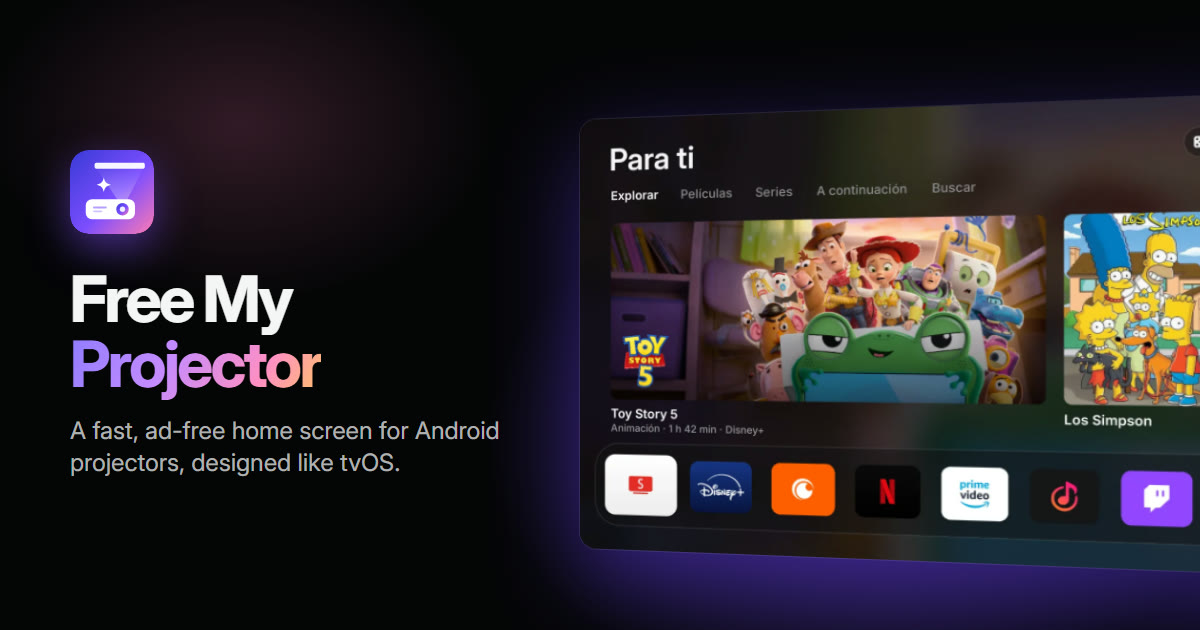
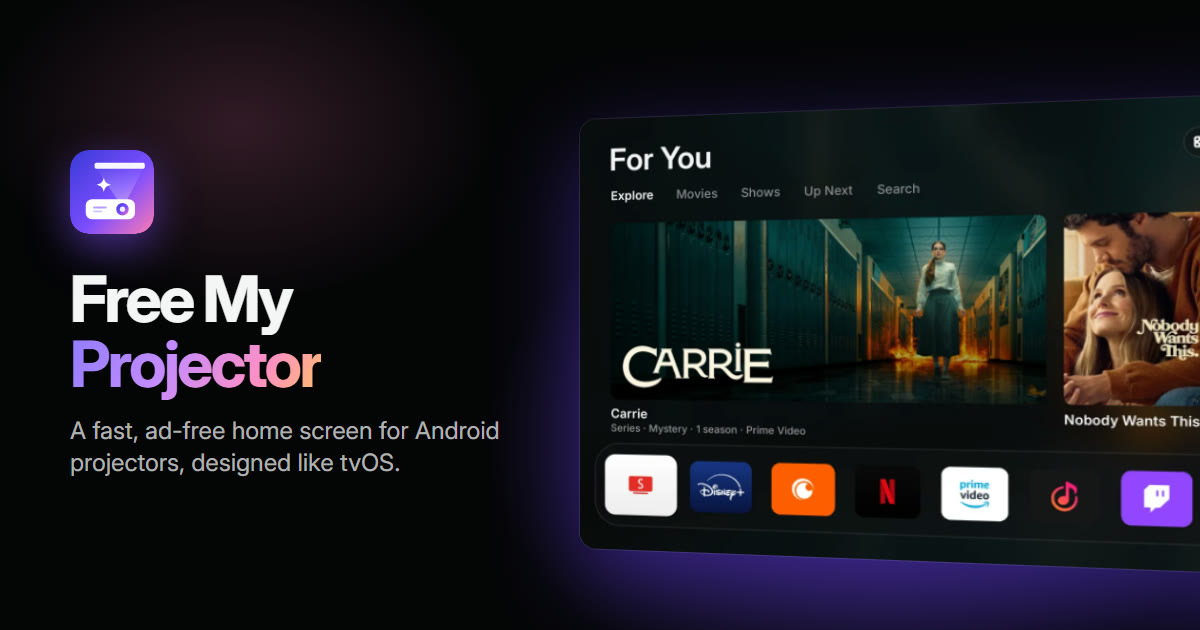
feat(web): capturas en inglés para la página en inglés; el comparador oculta la etiqueta del diseño tapado

Changed region(s): [[0.4933, 0.1508, 1.0, 0.7238], [0.6783, 0.8444, 1.0, 0.9048], [0.4933, 0.2111, 0.6167, 0.2714]]

diff --git a/docs/index.html b/docs/index.html
@@ -19,7 +19,7 @@
   <link rel="icon" href="assets/logo.svg" type="image/svg+xml">
   <link rel="apple-touch-icon" href="assets/icon-180.png">
   <link rel="preload" href="assets/fonts/InterVariable.ttf" as="font" type="font/ttf" crossorigin>
-  <link rel="stylesheet" href="styles.css?v=2">
+  <link rel="stylesheet" href="styles.css?v=3">
 </head>
 <body>
 
@@ -60,8 +60,8 @@
       <div class="stage reveal">
         <div class="beam"></div>
         <div class="screen">
-          <img class="night" src="img/home-dark.webp" srcset="img/home-dark-800.webp 800w, img/home-dark.webp 1600w" sizes="(max-width: 1200px) 100vw, 1180px" alt="The home screen at night: a large movie card, two posters and the app dock" fetchpriority="high">
-          <img class="day off" src="img/home-light.webp" srcset="img/home-light-800.webp 800w, img/home-light.webp 1600w" sizes="(max-width: 1200px) 100vw, 1180px" alt="The same home screen by day, in its light theme">
+          <img class="night" src="img/en/home-dark.webp" srcset="img/en/home-dark-800.webp 800w, img/en/home-dark.webp 1600w" sizes="(max-width: 1200px) 100vw, 1180px" alt="The home screen at night: a large movie card, two posters and the app dock" fetchpriority="high">
+          <img class="day off" src="img/en/home-light.webp" srcset="img/en/home-light-800.webp 800w, img/en/home-light.webp 1600w" sizes="(max-width: 1200px) 100vw, 1180px" alt="The same home screen by day, in its light theme">
         </div>
       </div>
       <div class="daynight" role="group" aria-label="Theme">
@@ -89,12 +89,12 @@
         <article class="tile glow reveal" style="--glow: rgba(255,122,182,.28)">
           <h3>A page for every title.</h3>
           <p>Synopsis, cast, rating and trailer, over its own artwork. “More like this” keeps you browsing.</p>
-          <div class="shot"><img src="img/title-800.webp" alt="A movie's page with its logo, synopsis, Watch and Trailer buttons, and more like it" loading="lazy"></div>
+          <div class="shot"><img src="img/en/title-800.webp" alt="A movie's page with its logo, synopsis, Watch and Trailer buttons, and more like it" loading="lazy"></div>
         </article>
         <article class="tile glow reveal" style="--glow: rgba(100,210,255,.22)">
           <h3>Search that knows your apps.</h3>
           <p>Type a few letters with the remote: your apps and the projector's switches show up first, then what you can watch.</p>
-          <div class="shot zoom"><img src="img/search.webp" alt="Search with a one-row keyboard, showing an app as the first result" loading="lazy"></div>
+          <div class="shot zoom"><img src="img/en/search.webp" alt="Search with a one-row keyboard, showing an app as the first result" loading="lazy"></div>
         </article>
         <article class="tile third reveal">
           <i class="tile-icon" style="--icon:url(assets/symbols/play.png)"></i>
@@ -124,9 +124,9 @@
 
       <div class="cc reveal">
         <div class="shot">
-          <img src="img/control-center.webp" alt="Control Center: the app dock, a row of projector shortcuts and the weather, Wi-Fi and projector cards" loading="lazy">
-          <img src="img/widgets.webp" alt="The widgets row: air quality, sun and moon, calendar with the next holiday, and a timer" loading="lazy" style="opacity:0">
-          <img src="img/control-center-dark.webp" alt="Control Center at night, in the dark theme" loading="lazy" style="opacity:0">
+          <img src="img/en/control-center.webp" alt="Control Center: the app dock, a row of projector shortcuts and the weather, Wi-Fi and projector cards" loading="lazy">
+          <img src="img/en/widgets.webp" alt="The widgets row: air quality, sun and moon, calendar with the next holiday, and a timer" loading="lazy" style="opacity:0">
+          <img src="img/en/control-center-dark.webp" alt="Control Center at night, in the dark theme" loading="lazy" style="opacity:0">
         </div>
         <div class="cc-dots" role="group" aria-label="Control Center views">
           <button aria-label="Shortcuts"></button><button aria-label="Widgets"></button><button aria-label="At night"></button>
@@ -179,7 +179,7 @@
           <h2 class="reveal">Sing along with whatever is playing.</h2>
           <p class="section-lede reveal">Spotify, YouTube Music or any player: the lyrics appear line by line in time with the song, big enough for the whole room. Free, no account, cached for next time.</p>
         </div>
-        <div class="shot reveal"><img src="img/lyrics-800.webp" srcset="img/lyrics-800.webp 800w, img/lyrics.webp 1600w" sizes="(max-width: 900px) 100vw, 640px" alt="Lyrics of a traditional song in large white lines on black" loading="lazy"></div>
+        <div class="shot reveal"><img src="img/en/lyrics-800.webp" srcset="img/en/lyrics-800.webp 800w, img/en/lyrics.webp 1600w" sizes="(max-width: 900px) 100vw, 640px" alt="Lyrics of a traditional song in large white lines on black" loading="lazy"></div>
       </div>
     </div>
   </section>
@@ -190,17 +190,17 @@
       <p class="kicker v reveal">Screensaver</p>
       <h2 class="reveal">When you pause, the wall becomes a window.</h2>
       <p class="section-lede reveal">A landscape a minute, with the time, the weather and what's playing, like the Apple TV's aerials. Or search free photos and pick your own.</p>
-      <div class="shot big-shot reveal"><img src="img/screensaver.webp" srcset="img/screensaver-800.webp 800w, img/screensaver.webp 1600w" sizes="(max-width: 1200px) 100vw, 1180px" alt="The screensaver: a snowy mountain with the time, the date and the weather" loading="lazy"></div>
+      <div class="shot big-shot reveal"><img src="img/en/screensaver.webp" srcset="img/en/screensaver-800.webp 800w, img/en/screensaver.webp 1600w" sizes="(max-width: 1200px) 100vw, 1180px" alt="The screensaver: a snowy mountain with the time, the date and the weather" loading="lazy"></div>
       <div class="bento">
         <article class="tile reveal">
           <h3>Your own backgrounds.</h3>
           <p>Search Wikimedia Commons' featured photos with the remote, keep the ones you like.</p>
-          <div class="shot"><img src="img/backgrounds-800.webp" alt="The background search: suggestion chips above a grid of beach photos" loading="lazy"></div>
+          <div class="shot"><img src="img/en/backgrounds-800.webp" alt="The background search: suggestion chips above a grid of beach photos" loading="lazy"></div>
         </article>
         <article class="tile reveal">
           <h3>What's new, after every update.</h3>
           <p>It updates itself from GitHub, checks the signature, and tells you what changed.</p>
-          <div class="shot"><img src="img/whats-new-800.webp" alt="The What's New sheet listing the release's changes" loading="lazy"></div>
+          <div class="shot"><img src="img/en/whats-new-800.webp" alt="The What's New sheet listing the release's changes" loading="lazy"></div>
         </article>
       </div>
     </div>
@@ -213,8 +213,8 @@
       <h2 class="reveal">Glass and posters, or a calm list.</h2>
       <p class="section-lede reveal">The classic design shows big artwork. The light design is a list of names over a slowly drifting landscape: the smoothest on modest hardware. Drag to compare.</p>
       <div class="compare reveal" tabindex="0" role="slider" aria-label="Compare the two designs" aria-valuemin="0" aria-valuemax="100" aria-valuenow="50">
-        <img src="img/home-dark.webp" alt="Classic design" loading="lazy">
-        <img class="after" src="img/light-design.webp" alt="Light design" loading="lazy">
+        <img src="img/en/home-dark.webp" alt="Classic design" loading="lazy">
+        <img class="after" src="img/en/light-design.webp" alt="Light design" loading="lazy">
         <div class="handle"></div>
         <span class="tag l">Classic</span><span class="tag r">Light</span>
       </div>
@@ -287,6 +287,6 @@ adb install -r FreeMyTV.apk</pre><button type="button" data-done="Copied">Copy</
   </div>
 </footer>
 
-<script src="app.js?v=2" defer></script>
+<script src="app.js?v=3" defer></script>
 </body>
 </html>

diff --git a/docs/app.js b/docs/app.js
@@ -58,7 +58,15 @@
   // Compare the two designs: drag, click or use the arrow keys
   document.querySelectorAll(".compare").forEach((box) => {
     let at = 50;
-    const set = (v) => { at = Math.max(0, Math.min(100, v)); box.style.setProperty("--split", at + "%"); box.setAttribute("aria-valuenow", Math.round(at)); };
+    const left = box.querySelector(".tag.l"), right = box.querySelector(".tag.r");
+    const set = (v) => {
+      at = Math.max(0, Math.min(100, v));
+      box.style.setProperty("--split", at + "%");
+      box.setAttribute("aria-valuenow", Math.round(at));
+      // A design pushed out of view takes its label with it
+      left.classList.toggle("gone", at < 14);
+      right.classList.toggle("gone", at > 86);
+    };
     const fromEvent = (e) => { const r = box.getBoundingClientRect(); set(((e.clientX - r.left) / r.width) * 100); };
     let dragging = false;
     box.addEventListener("pointerdown", (e) => { dragging = true; box.setPointerCapture(e.pointerId); fromEvent(e); });

diff --git a/docs/es/index.html b/docs/es/index.html
@@ -20,7 +20,7 @@
   <link rel="icon" href="../assets/logo.svg" type="image/svg+xml">
   <link rel="apple-touch-icon" href="../assets/icon-180.png">
   <link rel="preload" href="../assets/fonts/InterVariable.ttf" as="font" type="font/ttf" crossorigin>
-  <link rel="stylesheet" href="../styles.css?v=2">
+  <link rel="stylesheet" href="../styles.css?v=3">
 </head>
 <body>
 
@@ -280,6 +280,6 @@ adb install -r FreeMyTV.apk</pre><button type="button" data-done="Copiado">Copia
   </div>
 </footer>
 
-<script src="../app.js?v=2" defer></script>
+<script src="../app.js?v=3" defer></script>
 </body>
 </html>

diff --git a/docs/styles.css b/docs/styles.css
@@ -232,6 +232,8 @@ h2 {
 }
 .compare .tag { position: absolute; bottom: 16px; padding: 6px 12px; border-radius: 99px; font-size: 13px; font-weight: 600; background: rgba(0,0,0,.55); backdrop-filter: blur(10px); -webkit-backdrop-filter: blur(10px); }
 .compare .tag.l { left: 16px; } .compare .tag.r { right: 16px; }
+.compare .tag { transition: opacity .25s ease; }
+.compare .tag.gone { opacity: 0; }
 .compare:focus-visible { outline: 2px solid var(--violet); outline-offset: 4px; }
 
 /* Install */
